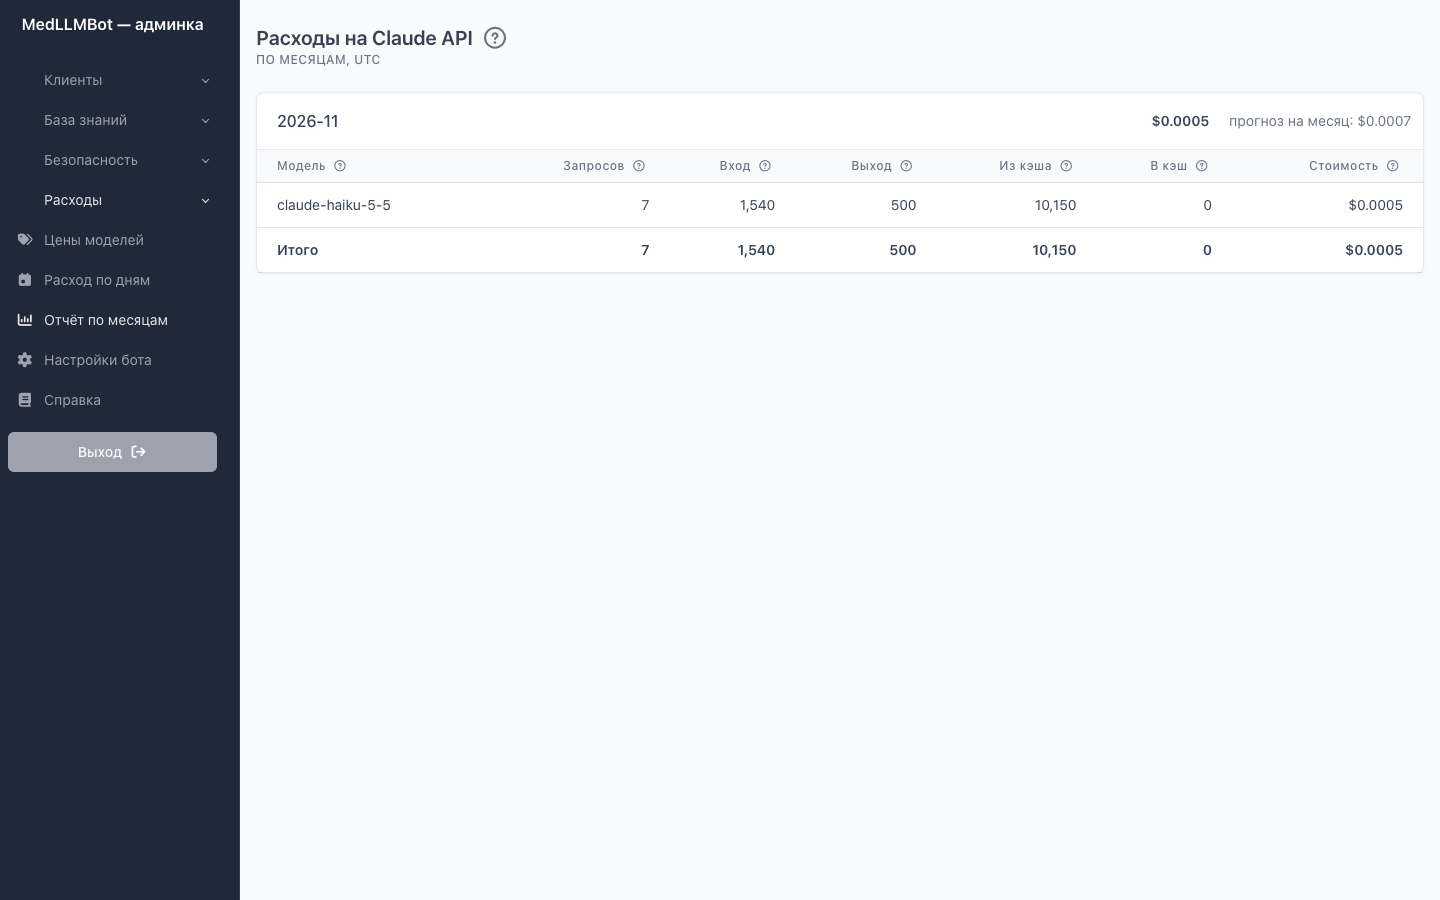
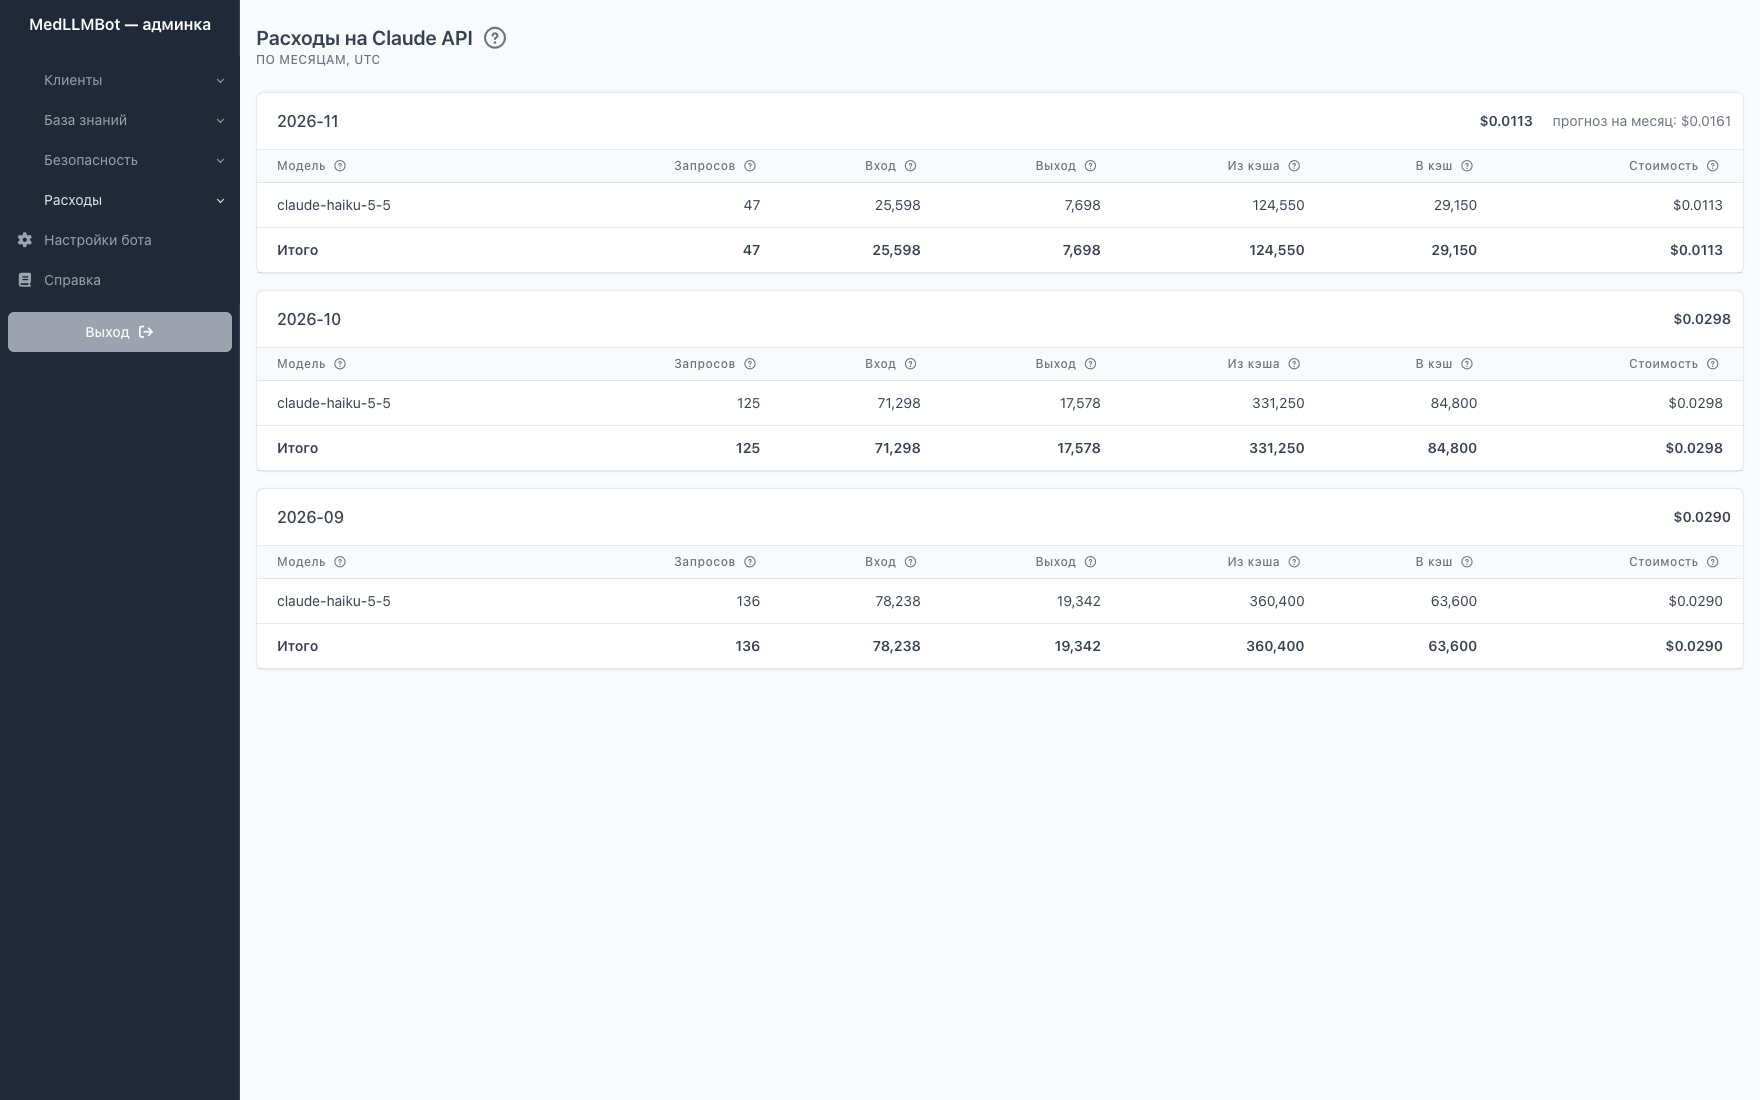
README screenshots: current admin panel, with Analytics and Orders
All eight screenshots are retaken at 1760x1100 from a temporary demo database with fictional activity.
- Retaken: home, leads, audit log, costs, catalog, help panel.
- New: Analytics and Orders (store profile).
The captions follow the current section names (Каталог и цены).

diff --git a/README_ru.md b/README_ru.md
@@ -55,10 +55,12 @@
 | --- | --- |
 | ![Главная: как работает бот и карта разделов](docs/screenshots/home.png) | ![Заявки: статус меняется прямо в списке](docs/screenshots/leads.png) |
 | **Главная** — как работает бот и карта разделов | **Заявки** — статус меняется прямо в списке |
-| ![Журнал: итоги обработки и подозрительные сообщения](docs/screenshots/audit-log.png) | ![Расходы на Claude API по месяцам](docs/screenshots/costs.png) |
-| **Журнал** — итог обработки каждого сообщения, попытки атак | **Расходы** — стоимость запросов к Claude по месяцам |
-| ![Услуги: порядок меняется перетаскиванием](docs/screenshots/services.png) | ![Справка «?» в боковой панели](docs/screenshots/help-panel.png) |
-| **Услуги и цены** — порядок меняется перетаскиванием | **Справка «?»** — инструкция к разделу в боковой панели |
+| ![Журнал: итоги обработки и подозрительные сообщения](docs/screenshots/audit-log.png) | ![Аналитика: темы вопросов, заявки, вопросы без ответа](docs/screenshots/analytics.png) |
+| **Журнал** — итог обработки каждого сообщения, попытки атак, живой оператор | **Аналитика** — о чём спрашивают, доля диалогов с заявкой, вопросы без ответа |
+| ![Расходы на Claude API по месяцам](docs/screenshots/costs.png) | ![Заказы магазина](docs/screenshots/orders.png) |
+| **Расходы** — стоимость запросов к Claude по месяцам и прогноз | **Заказы** (магазин) — статусы, которые бот сообщает покупателю |
+| ![Каталог: порядок меняется перетаскиванием](docs/screenshots/services.png) | ![Справка «?» в боковой панели](docs/screenshots/help-panel.png) |
+| **Каталог и цены** — порядок меняется перетаскиванием | **Справка «?»** — инструкция к разделу в боковой панели |
 
 ## Архитектура
 

diff --git a/README.md b/README.md
@@ -71,14 +71,18 @@ the store's own system (CMS, ERP) in a real project.
 
 ## Screenshots
 
+The admin panel is in Russian. All demo data is fictional.
+
 | | |
 | --- | --- |
 | ![Home](docs/screenshots/home.png) | ![Leads](docs/screenshots/leads.png) |
 | **Home** — how the bot works, map of sections | **Leads** — status changes right in the list |
-| ![Audit log](docs/screenshots/audit-log.png) | ![Costs](docs/screenshots/costs.png) |
-| **Audit log** — outcome of every message, attack attempts | **Costs** — Claude API spend by month |
-| ![Services](docs/screenshots/services.png) | ![Help panel](docs/screenshots/help-panel.png) |
-| **Services and prices** — drag-and-drop ordering | **Help "?"** — section guide in a side panel |
+| ![Audit log](docs/screenshots/audit-log.png) | ![Analytics](docs/screenshots/analytics.png) |
+| **Audit log** — outcome of every message, attack attempts, live operator | **Analytics** — what customers ask, dialogs that end in a lead, unanswered questions |
+| ![Costs](docs/screenshots/costs.png) | ![Orders](docs/screenshots/orders.png) |
+| **Costs** — Claude API spend by month, with a forecast | **Orders** (store) — the statuses the bot reports to customers |
+| ![Catalog](docs/screenshots/services.png) | ![Help panel](docs/screenshots/help-panel.png) |
+| **Catalog and prices** — drag-and-drop ordering | **Help "?"** — section guide in a side panel |
 
 ## Architecture
 
